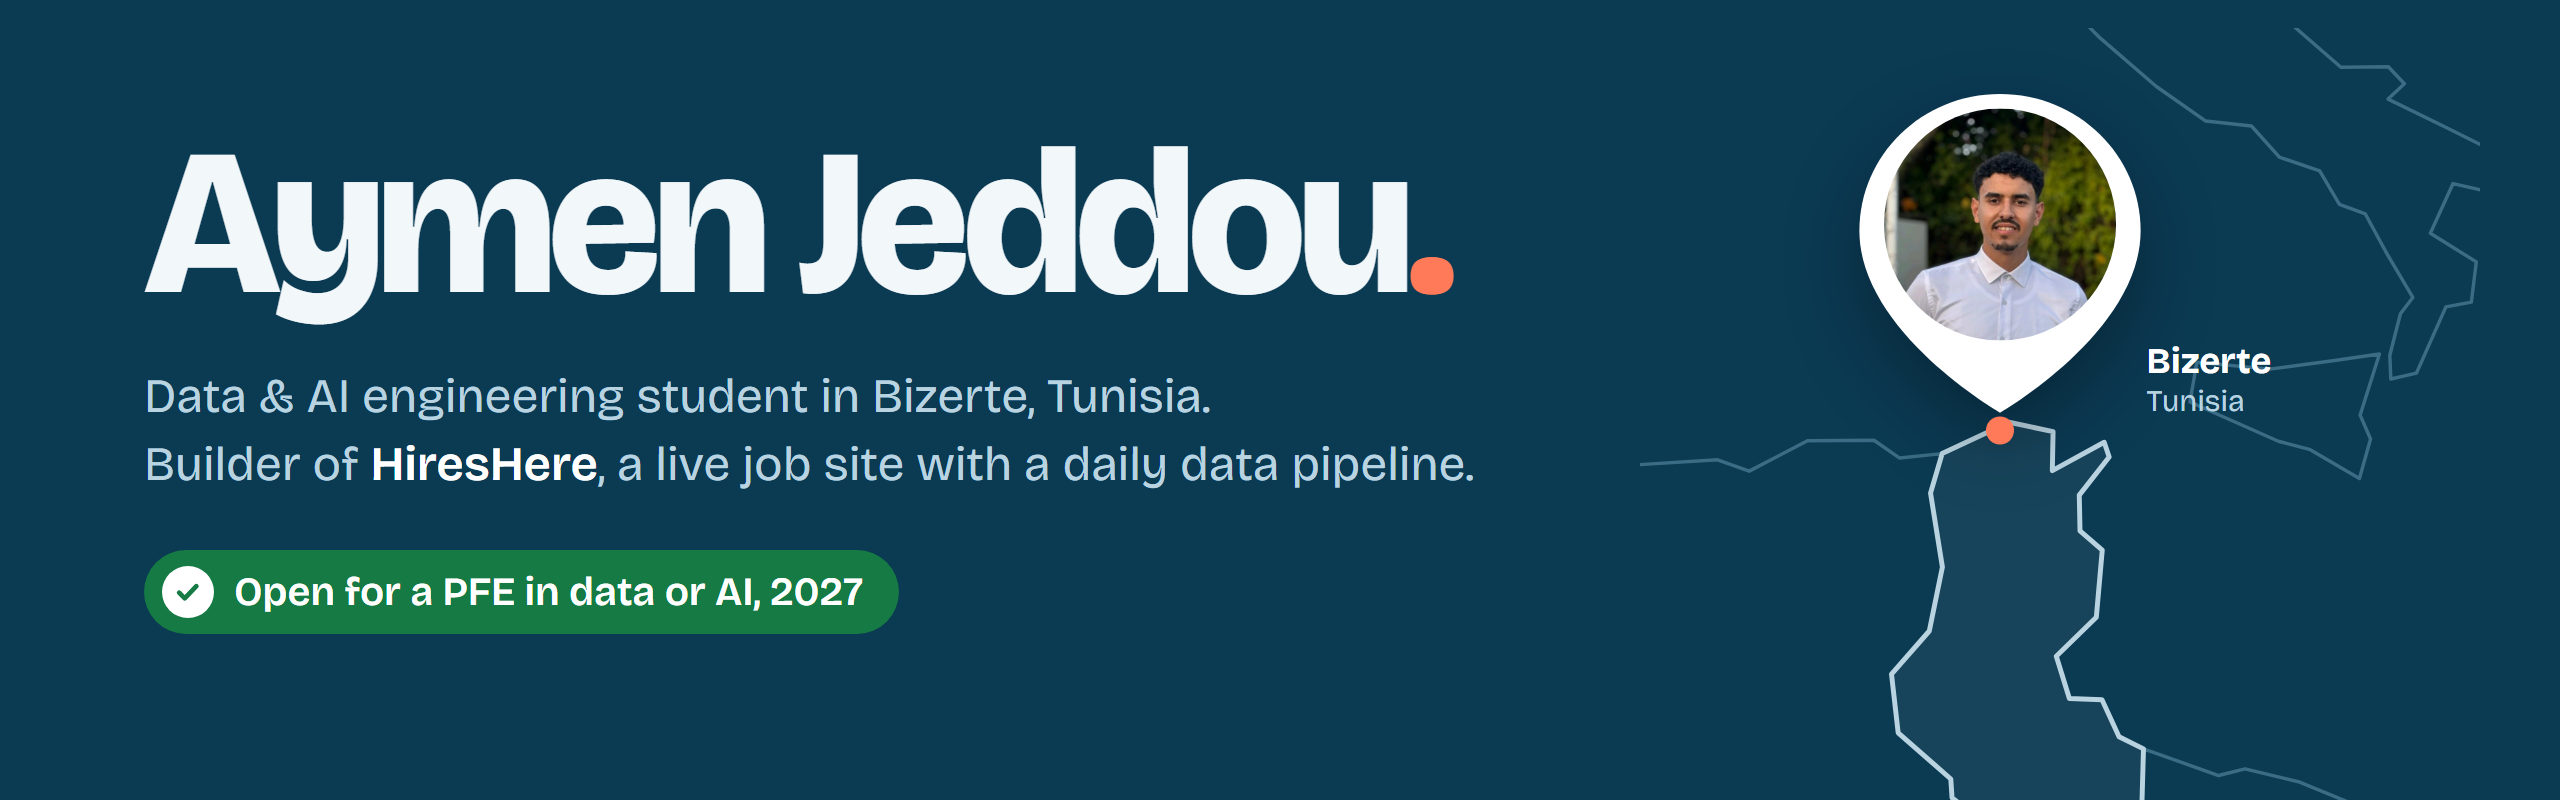
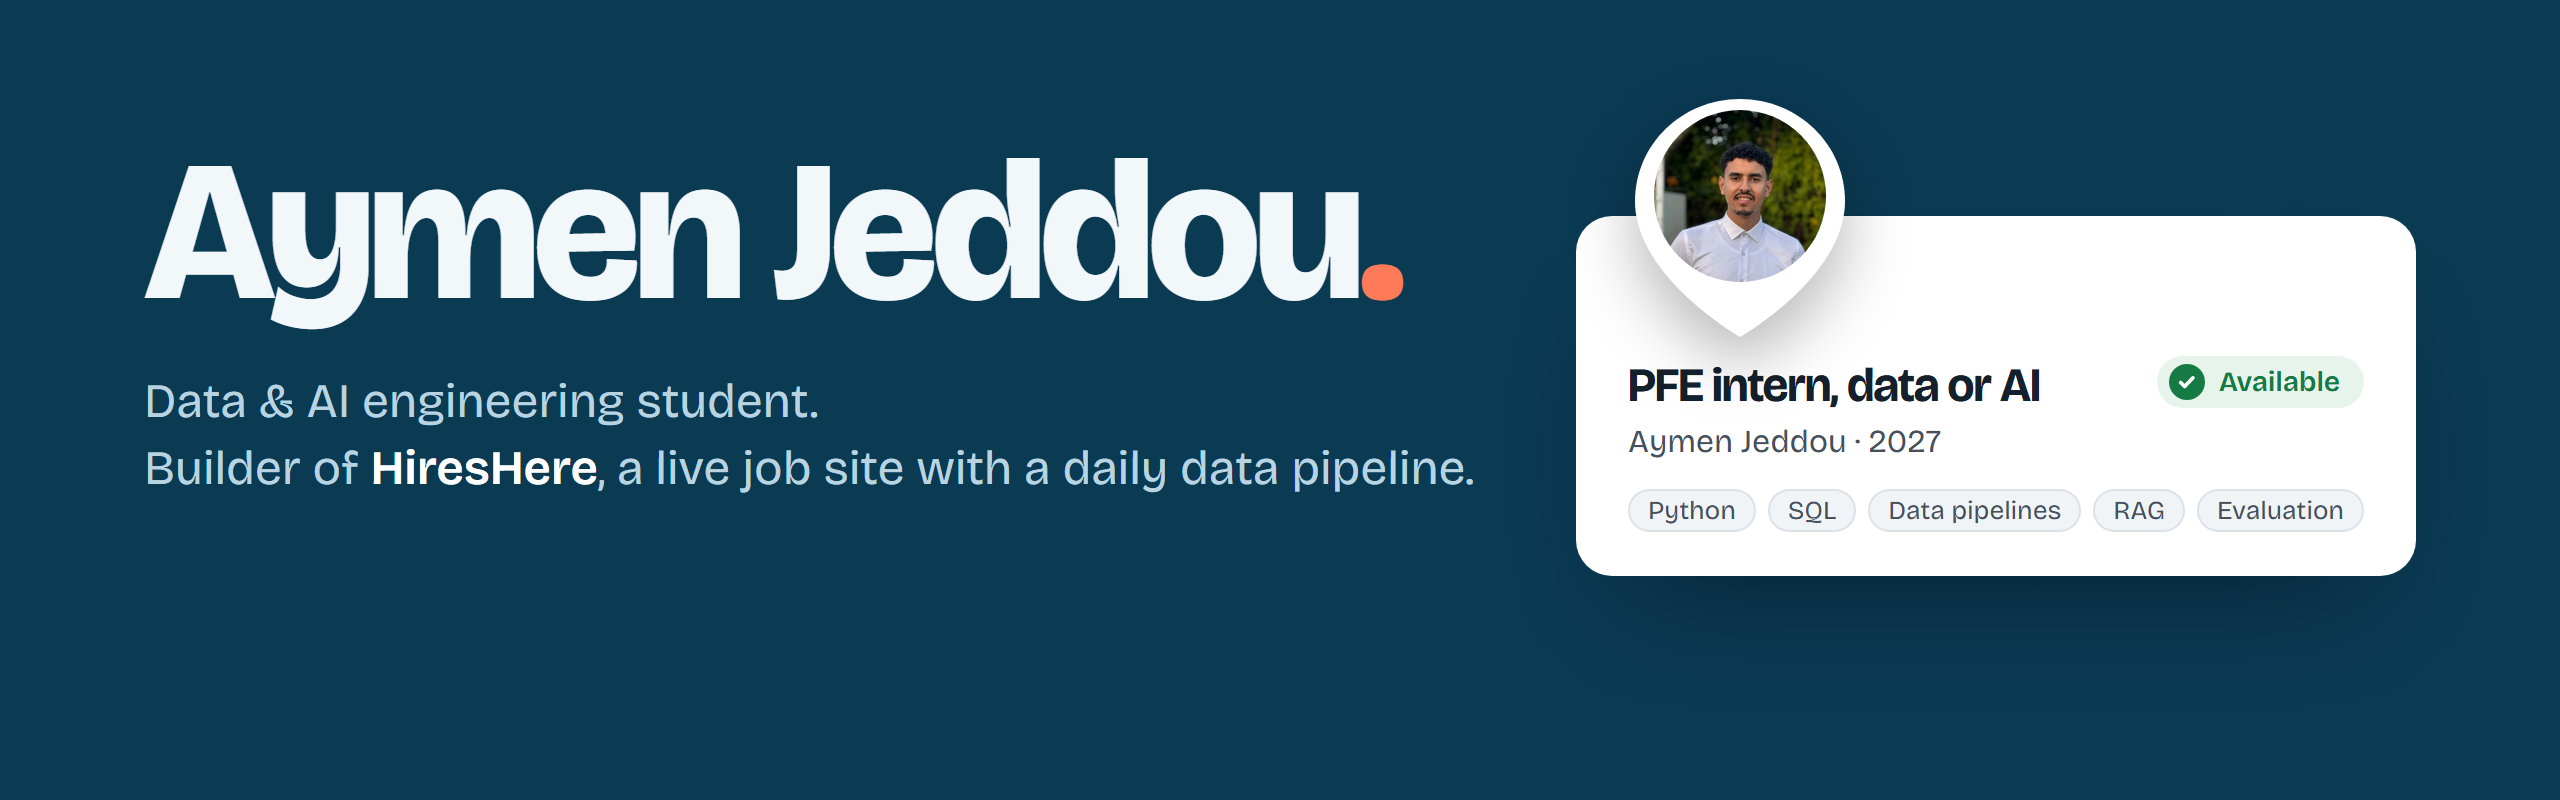
Profile README: short summary, clickable contact and skill badges, header without location

diff --git a/README.md b/README.md
@@ -1,44 +1,31 @@
-<a href="https://aymenjeddou.github.io"><img src="assets/header.png" alt="Aymen Jeddou. Data and AI engineering student in Bizerte, Tunisia. Builder of HiresHere. Open for a PFE in data or AI, 2027." width="100%"></a>
+<a href="https://aymenjeddou.github.io"><img src="assets/header.png" alt="Aymen Jeddou. Data and AI engineering student, builder of HiresHere. PFE intern in data or AI, available 2027." width="100%"></a>
 
-I build data pipelines and AI systems, then measure whether they work. [Portfolio](https://aymenjeddou.github.io) · [CV](https://aymenjeddou.github.io/assets/Aymen_Jeddou_CV_EN.pdf) · [LinkedIn](https://www.linkedin.com/in/aymen-jeddou-72891726a/) · [aymenjeddou03@gmail.com](mailto:aymenjeddou03@gmail.com)
+<p>
+  <a href="https://aymenjeddou.github.io"><img src="https://img.shields.io/badge/Portfolio-aymenjeddou.github.io-FF7A59?style=flat-square&labelColor=082C40" alt="Portfolio"></a>
+  <a href="https://www.linkedin.com/in/aymen-jeddou-72891726a/"><img src="https://img.shields.io/badge/LinkedIn-aymen--jeddou-0B3A53?style=flat-square&labelColor=082C40" alt="LinkedIn"></a>
+  <a href="mailto:aymenjeddou03@gmail.com"><img src="https://img.shields.io/badge/Email-aymenjeddou03%40gmail.com-0B3A53?style=flat-square&labelColor=082C40" alt="Email"></a>
+  <a href="https://aymenjeddou.github.io/assets/Aymen_Jeddou_CV_EN.pdf"><img src="https://img.shields.io/badge/CV-EN%20%2F%20FR-0B3A53?style=flat-square&labelColor=082C40" alt="CV"></a>
+  <a href="https://hireshere.app"><img src="https://img.shields.io/badge/HiresHere-hireshere.app-157A43?style=flat-square&labelColor=082C40" alt="HiresHere"></a>
+</p>
 
-### What I've built
+Third-year **Software & Data Engineering** student. I build data pipelines and AI systems, then measure whether they work: my latest is [HiresHere](https://hireshere.app), a live job site I run on a daily pipeline and an AI classifier. Looking for a **PFE internship in data or AI** for 2027.
 
-<table>
-<tr>
-<td width="50%" valign="top">
-<a href="https://hireshere.app"><img src="https://aymenjeddou.github.io/assets/work/hireshere.jpg" alt="HiresHere job search for Tunisia"></a>
-<b><a href="https://hireshere.app">HiresHere</a></b> · live · solo<br>
-Remote jobs you can actually apply for from your country. A daily pipeline reads ~540 companies' job feeds, Gemini batch fills a Pydantic schema, and Python rules give a verdict for 243 countries.<br>
-<sub>11,566 jobs · 597 companies · $1.85 to classify 4,563 postings (11 Oct 2026)</sub>
-</td>
-<td width="50%" valign="top">
-<img src="https://aymenjeddou.github.io/assets/work/sabeel.jpg" alt="Sabeel detecting a pothole, severity 4 of 5">
-<b>Sabeel (RoadScan)</b> · team of 4 · in progress<br>
-Pothole photo → YOLOv8n severity grade → a cited repair order routed to the right authority. I own the RAG work-order agent.<br>
-<sub>Chroma · YOLOv8n · FastAPI · PostGIS · Flutter</sub>
-</td>
-</tr>
-<tr>
-<td width="50%" valign="top">
-<a href="https://github.com/AymenJeddou/digital_campus_platform"><img src="https://aymenjeddou.github.io/assets/work/fsb-nexus.jpg" alt="FSB Nexus landing page"></a>
-<b><a href="https://github.com/AymenJeddou/digital_campus_platform">FSB Nexus</a></b> · IDEALAB internship, 2026<br>
-Multi-agent RAG assistant for my faculty. Hybrid search (pgvector + full-text, RRF) took hit@5 from 0.50 to 0.90 and MRR from 0.395 to 0.776, on an evaluation harness I built.<br>
-<sub>FastAPI · pgvector · Mistral · CI with 69 tests</sub>
-</td>
-<td width="50%" valign="top">
-<a href="https://fsbridge.vercel.app"><img src="https://aymenjeddou.github.io/assets/work/fsbridge.jpg" alt="FSBridge student portal"></a>
-<b><a href="https://fsbridge.vercel.app">FSBridge</a></b> · live<br>
-Student portal: GPA and honours on the Tunisian 20-point scale, timetables, PDF documents and a Gemini assistant.<br>
-<sub>React · TypeScript · Supabase</sub>
-</td>
-</tr>
-</table>
-
-More on the [portfolio](https://aymenjeddou.github.io): a Mobility & Environment ETL in Airflow, [AgroScan](https://github.com/AymenJeddou/AgroScan), and my internship at OAK Visuals.
-
-### Open source
-
-[remote-jobs #2270](https://github.com/remoteintech/remote-jobs/pull/2270) (9 moved careers links fixed) · [ats-scrapers #299](https://github.com/kalil0321/ats-scrapers/issues/299) (82 dead entries found) · [pydantic-ai #1771](https://github.com/pydantic/pydantic-ai/issues/1771) (Gemini batch requirements)
-
-<sub>Python · SQL · PostgreSQL + pgvector · Airflow · pandas · FastAPI · Pydantic · TypeScript · Astro · Docker · GitHub Actions · Cloudflare · Arabic, French, English</sub>
+<p>
+  <a href="https://www.python.org"><img src="https://img.shields.io/badge/Python-0B3A53?style=flat-square&logo=python&logoColor=white" alt="Python"></a>
+  <a href="https://en.wikipedia.org/wiki/SQL"><img src="https://img.shields.io/badge/SQL-0B3A53?style=flat-square&logo=postgresql&logoColor=white" alt="SQL"></a>
+  <a href="https://github.com/pgvector/pgvector"><img src="https://img.shields.io/badge/PostgreSQL%20%2B%20pgvector-0B3A53?style=flat-square&logo=postgresql&logoColor=white" alt="PostgreSQL + pgvector"></a>
+  <a href="https://airflow.apache.org"><img src="https://img.shields.io/badge/Apache%20Airflow-0B3A53?style=flat-square&logo=apacheairflow&logoColor=white" alt="Apache Airflow"></a>
+  <a href="https://pandas.pydata.org"><img src="https://img.shields.io/badge/pandas-0B3A53?style=flat-square&logo=pandas&logoColor=white" alt="pandas"></a>
+  <a href="https://fastapi.tiangolo.com"><img src="https://img.shields.io/badge/FastAPI-0B3A53?style=flat-square&logo=fastapi&logoColor=white" alt="FastAPI"></a>
+  <a href="https://docs.pydantic.dev"><img src="https://img.shields.io/badge/Pydantic-0B3A53?style=flat-square&logo=pydantic&logoColor=white" alt="Pydantic"></a>
+  <a href="https://www.langchain.com"><img src="https://img.shields.io/badge/LangChain-0B3A53?style=flat-square&logo=langchain&logoColor=white" alt="LangChain"></a>
+  <a href="https://scikit-learn.org"><img src="https://img.shields.io/badge/scikit--learn-0B3A53?style=flat-square&logo=scikitlearn&logoColor=white" alt="scikit-learn"></a>
+  <a href="https://ai.google.dev"><img src="https://img.shields.io/badge/Gemini-0B3A53?style=flat-square&logo=googlegemini&logoColor=white" alt="Gemini"></a>
+  <a href="https://www.typescriptlang.org"><img src="https://img.shields.io/badge/TypeScript-0B3A53?style=flat-square&logo=typescript&logoColor=white" alt="TypeScript"></a>
+  <a href="https://astro.build"><img src="https://img.shields.io/badge/Astro-0B3A53?style=flat-square&logo=astro&logoColor=white" alt="Astro"></a>
+  <a href="https://react.dev"><img src="https://img.shields.io/badge/React-0B3A53?style=flat-square&logo=react&logoColor=white" alt="React"></a>
+  <a href="https://flutter.dev"><img src="https://img.shields.io/badge/Flutter-0B3A53?style=flat-square&logo=flutter&logoColor=white" alt="Flutter"></a>
+  <a href="https://www.docker.com"><img src="https://img.shields.io/badge/Docker-0B3A53?style=flat-square&logo=docker&logoColor=white" alt="Docker"></a>
+  <a href="https://github.com/features/actions"><img src="https://img.shields.io/badge/GitHub%20Actions-0B3A53?style=flat-square&logo=githubactions&logoColor=white" alt="GitHub Actions"></a>
+  <a href="https://www.cloudflare.com"><img src="https://img.shields.io/badge/Cloudflare-0B3A53?style=flat-square&logo=cloudflare&logoColor=white" alt="Cloudflare"></a>
+</p>
